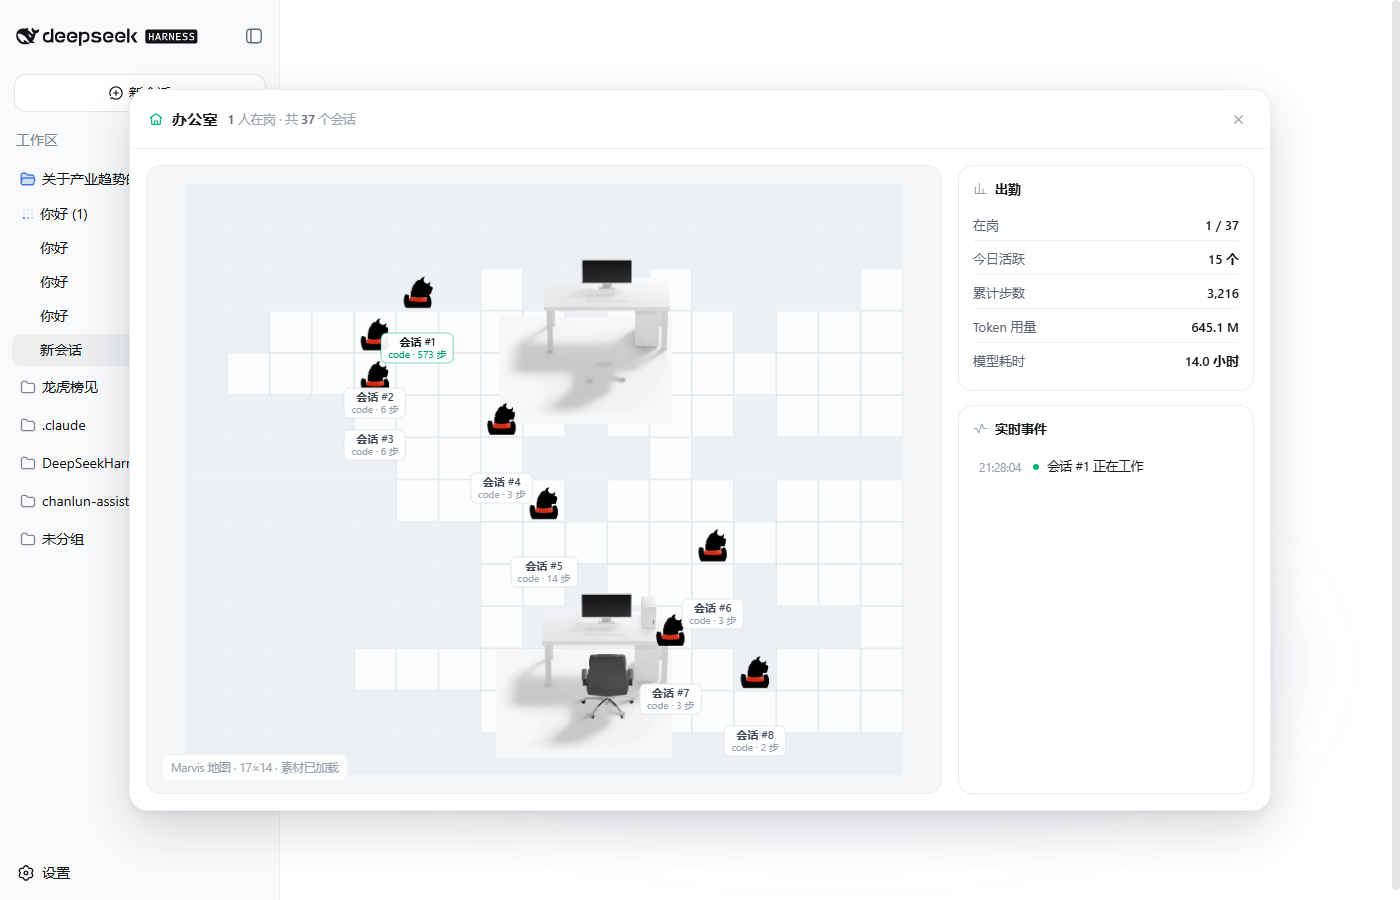
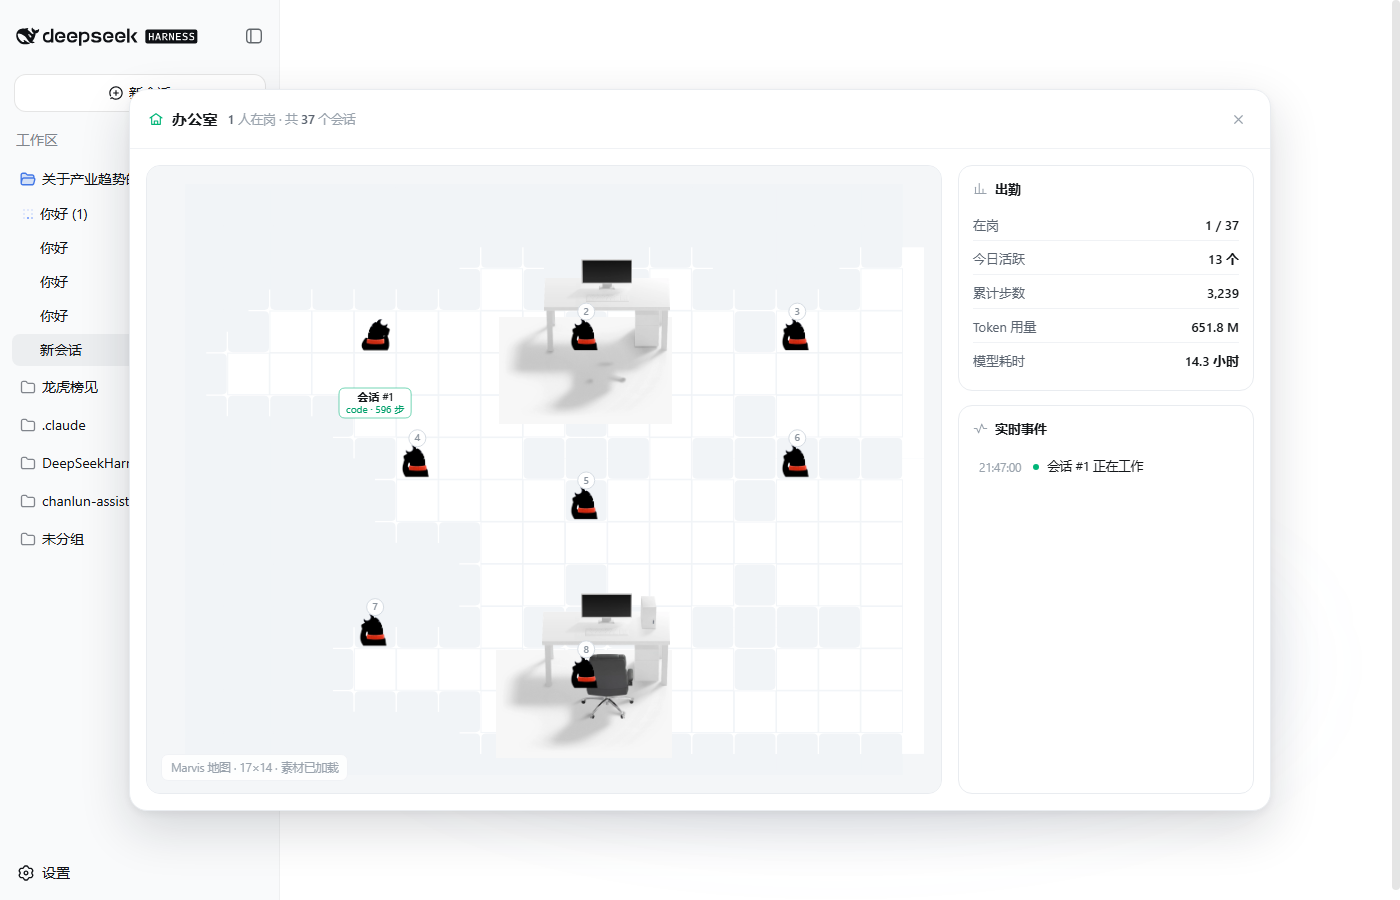
fix(dsh-office): 修好地板碎片/名牌满屏/agent 挤对角线
- 地板: 白色可走区向四周扩张半格融合成整块房间, 墙色降为 #f1f4f7 圆角

- 名牌只给工作中显示(实测 labels=1 badges=7), 空闲改头顶序号徽章

- 分布: 包围盒均匀撒点+就近落格, 铺满全场

- 加 window.__dsoDebug 运行时探针, 避免再靠肉眼猜

- 版本 v11-floor-fused, 已验证 browser executed ver 与服务端一致

diff --git a/dsh-office/dsh-office.js b/dsh-office/dsh-office.js
@@ -5,6 +5,7 @@
 */
 (function(){
   'use strict';
+  window.__DSH_OFFICE_V = 'v11-floor-fused';
   if (window.__DSH_OFFICE__) return;
   window.__DSH_OFFICE__ = true;
 
@@ -215,6 +216,7 @@
   var CW=800, CH=500, dpr=Math.min(2, window.devicePixelRatio||1);
   var view = { sc:1, ox:0, oy:0 };
   var pendingLabels = [];
+  var pendingBadges = [];
 
   function buildPanel(){
     panelEl = document.createElement('div');
@@ -360,26 +362,36 @@
     ctx.translate(ox, oy);
     ctx.scale(sc, sc);
 
-    // 地板（用可走格子铺一层极淡色块，体现 Marvis 的房间分区）
-    var cells = walkableCells();
-    ctx.fillStyle = 'rgba(255,255,255,0.72)';
-    cells.forEach(function(c){ ctx.fillRect(c.cx*tw, c.cy*th, tw, th); });
-    ctx.strokeStyle = 'rgba(225,230,236,0.85)';
-    ctx.lineWidth = 1/sc;
-    cells.forEach(function(c){ ctx.strokeRect(c.cx*tw+0.5, c.cy*th+0.5, tw-1, th-1); });
+    // 房间底：整块浅色（先铺满，再用墙块雕出房间形状）
+    ctx.fillStyle = '#f1f4f7';
+    ctx.fillRect(0, 0, mapW, mapH);
 
-    // 阻挡墙（深一档，体现房间形状）
+    var cells = walkableCells();
+    // 可走区连通填充：向四周扩张半格，让相邻白区融合成完整房间
+    ctx.fillStyle = '#ffffff';
+    var growX = tw * 0.5, growY = th * 0.5;
+    cells.forEach(function(c){
+      ctx.fillRect(c.cx*tw - growX, c.cy*th - growY, tw + growX*2, th + growY*2);
+    });
+
+    // 墙块：圆角，弱化「迷宫感」
     var block = null;
     (R.map.layers||[]).forEach(function(l){ if (l.name==='block') block = l; });
     if (block){
-      ctx.fillStyle = '#eceff3';
+      ctx.fillStyle = '#f1f4f7';
       for (var i=0;i<block.data.length;i++){
         if (block.data[i] !== 0){
           var bx = (i % block.width)*tw, by = Math.floor(i/block.width)*th;
-          ctx.fillRect(bx, by, tw, th);
+          rr(bx + 1, by + 1, tw - 2, th - 2, 7);
+          ctx.fill();
         }
       }
     }
+
+    // 地板分格：极淡，只留质感
+    ctx.strokeStyle = 'rgba(238,242,246,0.75)';
+    ctx.lineWidth = 1 / sc;
+    cells.forEach(function(c){ ctx.strokeRect(c.cx*tw + 0.5, c.cy*th + 0.5, tw - 1, th - 1); });
 
     // 对象层（按 group 内层顺序）
     var objs = collectObjects();
@@ -399,13 +411,23 @@
 
     ctx.restore();
 
-    // 名牌（屏幕坐标）
+    // 名牌 + 序号徽章（屏幕坐标）
+    window.__dsoDebug = {
+      labels: pendingLabels.length,
+      badges: pendingBadges.length,
+      items: (state.items||[]).length,
+      running: (state.items||[]).filter(function(s){ return s.running; }).length,
+      allRunning: (state.all||[]).filter(function(s){ return s.running; }).length,
+      actives: (state.items||[]).map(function(s){ return !!s.running; })
+    };
     drawLabels();
+    drawBadges();
   }
 
   function drawAgents(){
     var list = state.items || [];
     pendingLabels = [];
+    pendingBadges = [];
     if (!list.length) return;
     var cells = walkableCells();
     if (!cells.length) return;
@@ -419,10 +441,32 @@
     var n = Math.min(list.length, 8);
     var picks = [];
     // 把整个可走区切成 n 段，每段取一个 —— 铺满全场且不重叠
-    var per = Math.max(1, Math.ceil(cells.length / n));
-    for (var k = 0; k < n && k * per < cells.length; k++){
-      var slice = cells.slice(k * per, (k + 1) * per);
-      if (slice.length) picks.push(slice[Math.floor(slice.length / 2)]);
+    // 包围盒均匀撒点，再落到最近可走格 —— 铺满整个房间而非一条对角线
+    if (cells.length){
+      var minx=1e9, maxx=-1e9, miny=1e9, maxy=-1e9;
+      cells.forEach(function(c){
+        if (c.cx<minx) minx=c.cx; if (c.cx>maxx) maxx=c.cx;
+        if (c.cy<miny) miny=c.cy; if (c.cy>maxy) maxy=c.cy;
+      });
+      var spanX = maxx - minx + 1, spanY = maxy - miny + 1;
+      var cols = Math.max(1, Math.round(Math.sqrt(n * spanX / spanY)));
+      var rows = Math.ceil(n / cols);
+      for (var r = 0; r < rows && picks.length < n; r++){
+        for (var c2 = 0; c2 < cols && picks.length < n; c2++){
+          var tx = minx + spanX * (c2 + 0.5) / cols;
+          var ty = miny + spanY * (r + 0.5) / rows;
+          var best = null, bd = 1e9;
+          for (var i2 = 0; i2 < cells.length; i2++){
+            var cc = cells[i2];
+            var d = (cc.cx - tx) * (cc.cx - tx) + (cc.cy - ty) * (cc.cy - ty);
+            if (d < bd){ bd = d; best = cc; }
+          }
+          if (best && picks.indexOf(best) < 0) picks.push(best);
+        }
+      }
+      for (var b2 = 0; picks.length < n && b2 < cells.length; b2++){
+        if (picks.indexOf(cells[b2]) < 0) picks.push(cells[b2]);
+      }
     }
 
     var tw = R.map.tilewidth, th = R.map.tileheight;
@@ -445,15 +489,23 @@
       var ss = f.spriteSourceSize;
       drawSprite(ctx, anim.img, f, dx + ss.x * scale, dy + ss.y * scale, f.frame.w * scale, f.frame.h * scale);
 
-      // 内容实际底部（地图坐标），名牌贴在这里
-      var contentBottom = dy + ss.y * scale + f.frame.h * scale;
-      pendingLabels.push({
-        x: view.ox + bx * view.sc,
-        y: view.oy + contentBottom * view.sc + 3,
-        title: labelOf(s, i),
-        sub: subOf(s),
-        active: active
-      });
+      // 名牌只给「工作中」—— 空闲用头顶小徽章，避免满屏名牌压住画面
+      if (active){
+        var contentBottom = dy + ss.y * scale + f.frame.h * scale;
+        pendingLabels.push({
+          x: view.ox + bx * view.sc,
+          y: view.oy + contentBottom * view.sc + 3,
+          title: labelOf(s, i),
+          sub: subOf(s),
+          active: true
+        });
+      } else {
+        pendingBadges.push({
+          x: view.ox + bx * view.sc,
+          y: view.oy + (dy + ss.y * scale) * view.sc - 7,
+          n: i + 1
+        });
+      }
     }
   }
 
@@ -488,6 +540,27 @@
       ctx.font = '10px -apple-system,"Segoe UI","PingFang SC","Microsoft YaHei",sans-serif';
       ctx.fillStyle = L.active ? '#00a06b' : '#9aa3ad';
       ctx.fillText(L.sub, L.x, y + 25);
+      ctx.restore();
+    });
+  }
+
+  function drawBadges(){
+    if (!pendingBadges.length) return;
+    pendingBadges.forEach(function(B){
+      ctx.save();
+      ctx.beginPath();
+      ctx.arc(B.x, B.y, 8.5, 0, 6.2832);
+      ctx.fillStyle = 'rgba(255,255,255,0.95)';
+      ctx.fill();
+      ctx.strokeStyle = 'rgba(214,220,227,1)';
+      ctx.lineWidth = 1;
+      ctx.stroke();
+      ctx.fillStyle = '#8b949e';
+      ctx.font = '600 10px -apple-system,"Segoe UI","PingFang SC","Microsoft YaHei",sans-serif';
+      ctx.textAlign = 'center';
+      ctx.textBaseline = 'middle';
+      ctx.fillText(String(B.n), B.x, B.y + 0.5);
+      ctx.textBaseline = 'alphabetic';
       ctx.restore();
     });
   }
